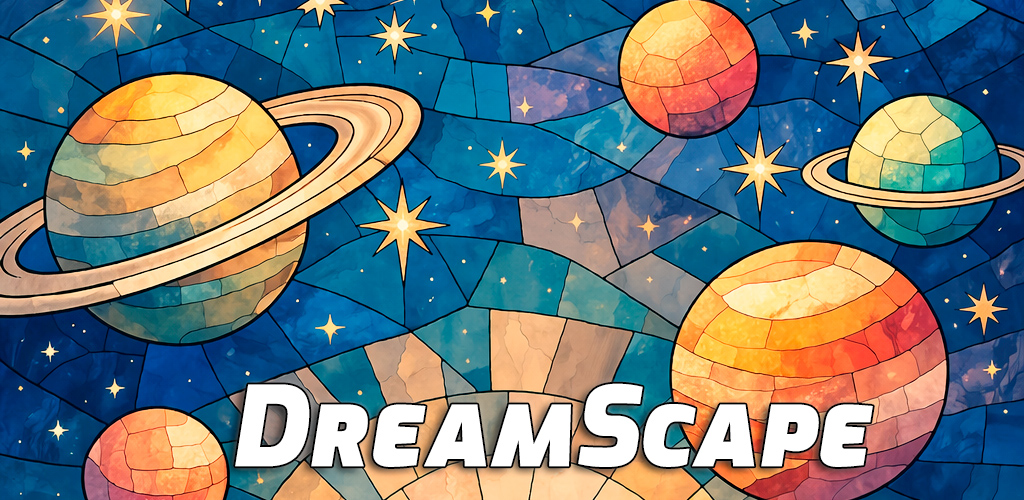
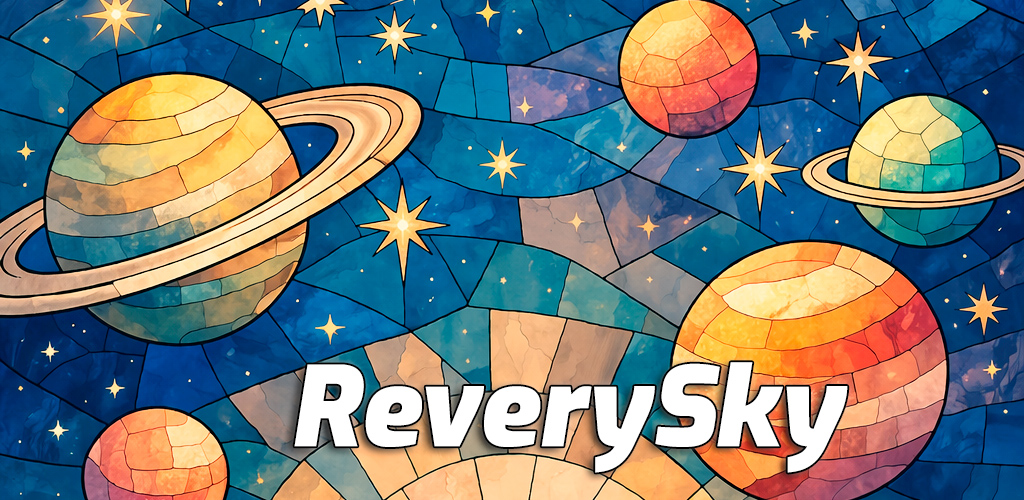
Rebranding to ReverySky

Changed region(s): [[0.2188, 0.72, 0.875, 0.96]]

diff --git a/index.html b/index.html
@@ -3,29 +3,29 @@
 <head>
   <meta charset="UTF-8" />
   <meta name="viewport" content="width=device-width, initial-scale=1.0" />
-  <title>DreamScape</title>
+  <title>ReverySky</title>
   <meta
     name="description"
-    content="DreamScape is an Android dream journaling app and casual cosmic game where recorded dreams become a growing Star Map."
+    content="ReverySky is an Android dream journaling app and casual cosmic game where recorded dreams become a growing Star Map."
   />
   <meta name="robots" content="index,follow,max-image-preview:large" />
-  <link rel="canonical" href="https://moonskorch.github.io/dreamscape/" />
+  <link rel="canonical" href="https://moonskorch.github.io/reverysky/" />
   <meta property="og:type" content="website" />
-  <meta property="og:site_name" content="DreamScape" />
-  <meta property="og:title" content="DreamScape" />
+  <meta property="og:site_name" content="ReverySky" />
+  <meta property="og:title" content="ReverySky" />
   <meta
     property="og:description"
-    content="DreamScape is an Android dream journaling app and casual cosmic game where recorded dreams become a growing Star Map."
+    content="ReverySky is an Android dream journaling app and casual cosmic game where recorded dreams become a growing Star Map."
   />
-  <meta property="og:url" content="https://moonskorch.github.io/dreamscape/" />
-  <meta property="og:image" content="https://moonskorch.github.io/dreamscape/assets/featured.jpg" />
+  <meta property="og:url" content="https://moonskorch.github.io/reverysky/" />
+  <meta property="og:image" content="https://moonskorch.github.io/reverysky/assets/featured.jpg" />
   <meta name="twitter:card" content="summary_large_image" />
-  <meta name="twitter:title" content="DreamScape" />
+  <meta name="twitter:title" content="ReverySky" />
   <meta
     name="twitter:description"
-    content="DreamScape is an Android dream journaling app and casual cosmic game where recorded dreams become a growing Star Map."
+    content="ReverySky is an Android dream journaling app and casual cosmic game where recorded dreams become a growing Star Map."
   />
-  <meta name="twitter:image" content="https://moonskorch.github.io/dreamscape/assets/featured.jpg" />
+  <meta name="twitter:image" content="https://moonskorch.github.io/reverysky/assets/featured.jpg" />
   <link rel="icon" type="image/png" sizes="128x128" href="assets/icon-128.png" />
   <link rel="apple-touch-icon" sizes="512x512" href="assets/icon-512.png" />
   <link
@@ -39,10 +39,10 @@
     {
       "@context": "https://schema.org",
       "@type": ["SoftwareApplication", "MobileApplication"],
-      "name": "DreamScape",
+      "name": "ReverySky",
       "applicationCategory": "GameApplication",
       "operatingSystem": "Android",
-      "description": "DreamScape is an Android dream journaling app and casual cosmic game where recorded dreams become a growing Star Map.",
+      "description": "ReverySky is an Android dream journaling app and casual cosmic game where recorded dreams become a growing Star Map.",
       "offers": {
         "@type": "Offer",
         "price": "0",
@@ -59,8 +59,8 @@
   <header class="site-header">
     <div class="container d-flex align-items-center justify-content-between py-3">
       <a href="index.html" class="logo">
-        <img class="logo-icon" src="assets/icon-128.png" alt="DreamScape icon" />
-        <span>DreamScape</span>
+        <img class="logo-icon" src="assets/icon-128.png" alt="ReverySky icon" />
+        <span>ReverySky</span>
       </a>
       <a
         class="header-discord-link"
@@ -82,11 +82,11 @@
             <img
               class="hero-title-image"
               src="assets/featured.jpg"
-              alt="DreamScape featured artwork"
+              alt="ReverySky featured artwork"
             />
-            <h1 class="visually-hidden">DreamScape</h1>
+            <h1 class="visually-hidden">ReverySky</h1>
             <p class="lead">
-              DreamScape is an Android app and casual cosmic game built around dream journaling.
+              ReverySky is an Android app and casual cosmic game built around dream journaling.
               Record dreams, grow your personal Star Map, and watch recurring patterns emerge across
               different nights.
             </p>
@@ -131,18 +131,18 @@
           <div class="col-12 col-lg-8 text-center">
             <h2 class="section-title">In-Game Screenshots</h2>
             <p class="section-intro">
-              A quick look at DreamScape gameplay and interface.
+              A quick look at ReverySky gameplay and interface.
             </p>
           </div>
         </div>
 
-        <div class="screenshots-carousel" aria-label="DreamScape app screenshots">
+        <div class="screenshots-carousel" aria-label="ReverySky app screenshots">
           <button class="carousel-btn prev" type="button" aria-label="Previous screenshot">&#8249;</button>
           <div class="screenshots-track" id="screenshotsTrack" tabindex="0">
             <figure class="screenshot-card">
               <img
                 src="assets/screenshots/star-map-overview.jpg"
-                alt="DreamScape star map overview screen"
+                alt="ReverySky star map overview screen"
                 loading="lazy"
               />
               <figcaption>Star Map Network</figcaption>
@@ -150,7 +150,7 @@
             <figure class="screenshot-card">
               <img
                 src="assets/screenshots/star-map-planet-view.jpg"
-                alt="DreamScape star map planet view screen"
+                alt="ReverySky star map planet view screen"
                 loading="lazy"
               />
               <figcaption>Dream Star with Landmarks</figcaption>
@@ -158,7 +158,7 @@
             <figure class="screenshot-card">
               <img
                 src="assets/screenshots/dream-editor.jpg"
-                alt="DreamScape dream editor screen"
+                alt="ReverySky dream editor screen"
                 loading="lazy"
               />
               <figcaption>Note Editor</figcaption>
@@ -166,7 +166,7 @@
             <figure class="screenshot-card">
               <img
                 src="assets/screenshots/recall-screen.jpg"
-                alt="DreamScape recall screen"
+                alt="ReverySky recall screen"
                 loading="lazy"
               />
               <figcaption>Recall Flow</figcaption>
@@ -174,7 +174,7 @@
             <figure class="screenshot-card">
               <img
                 src="assets/screenshots/dream-card.jpg"
-                alt="DreamScape dream card screen"
+                alt="ReverySky dream card screen"
                 loading="lazy"
               />
               <figcaption>Dream Star Landmarks &amp; Boons</figcaption>
@@ -182,7 +182,7 @@
             <figure class="screenshot-card">
               <img
                 src="assets/screenshots/cards-3d-space.jpg"
-                alt="DreamScape tarot-inspired boons cards in 3D space"
+                alt="ReverySky tarot-inspired boons cards in 3D space"
                 loading="lazy"
               />
               <figcaption>Tarot-inspired Boons</figcaption>
@@ -190,7 +190,7 @@
             <figure class="screenshot-card">
               <img
                 src="assets/screenshots/home-menu.jpg"
-                alt="DreamScape home menu screen"
+                alt="ReverySky home menu screen"
                 loading="lazy"
               />
               <figcaption>Home Menu</figcaption>
@@ -208,7 +208,7 @@
           <div class="col-12 col-lg-8 text-center">
             <h2 class="section-title">A Casual Cosmic Game Built From Your Dreams</h2>
             <p class="section-intro">
-              DreamScape blends dream journaling, personal notes, and light progression into a
+              ReverySky blends dream journaling, personal notes, and light progression into a
               calm, replayable loop.
             </p>
           </div>
@@ -261,19 +261,19 @@
           <div class="col-12 col-lg-6">
             <h2 class="project-note-title">Project Stage</h2>
             <p class="project-note-text">
-              DreamScape is created by <strong>MoonSkorch Studio</strong>, a solo indie developer
+              ReverySky is created by <strong>MoonSkorch Studio</strong>, a solo indie developer
               label. The core loop is stable and ready for everyday use: record dreams, grow your
               Star Map, and revisit entries over time.
             </p>
             <p class="project-note-text">
-              DreamScape is now rolling out across stores, and community feedback helps shape
+              ReverySky is now rolling out across stores, and community feedback helps shape
               upcoming updates.
             </p>
           </div>
           <div class="col-12 col-lg-6">
             <h2 class="project-note-title">Join the Community</h2>
             <p class="project-note-text">
-              If DreamScape resonates with you, download it, try it, leave a review, and share your
+              If ReverySky resonates with you, download it, try it, leave a review, and share your
               impressions in Discord.
             </p>
             <div class="community-cta">
@@ -369,10 +369,10 @@
       class="container py-4 d-flex flex-column flex-sm-row gap-2 justify-content-between align-items-start align-items-sm-center"
     >
       <div class="publisher-block">
-        <p class="copyright">(c) 2026 DreamScape</p>
+        <p class="copyright">(c) 2026 ReverySky</p>
         <p class="publisher">Published by MoonSkorch Studio</p>
         <p class="contact-email">
-          Contact: <a class="contact-link" href="mailto:dreamscape.journal@proton.me">dreamscape.journal@proton.me</a>
+          Contact: <a class="contact-link" href="mailto:reverysky.journal@proton.me">reverysky.journal@proton.me</a>
         </p>
       </div>
       <div class="legal-links">

diff --git a/privacy-policy.html b/privacy-policy.html
@@ -3,14 +3,14 @@
 <head>
   <meta charset="UTF-8" />
   <meta name="viewport" content="width=device-width, initial-scale=1.0" />
-  <title>DreamScape - Privacy Policy</title>
-  <meta name="description" content="Privacy Policy for DreamScape." />
+  <title>ReverySky - Privacy Policy</title>
+  <meta name="description" content="Privacy Policy for ReverySky." />
   <meta name="robots" content="index,follow,max-image-preview:large" />
-  <link rel="canonical" href="https://moonskorch.github.io/dreamscape/privacy-policy.html" />
+  <link rel="canonical" href="https://moonskorch.github.io/reverysky/privacy-policy.html" />
   <meta property="og:type" content="website" />
-  <meta property="og:title" content="DreamScape Privacy Policy" />
-  <meta property="og:description" content="Privacy Policy for DreamScape." />
-  <meta property="og:url" content="https://moonskorch.github.io/dreamscape/privacy-policy.html" />
+  <meta property="og:title" content="ReverySky Privacy Policy" />
+  <meta property="og:description" content="Privacy Policy for ReverySky." />
+  <meta property="og:url" content="https://moonskorch.github.io/reverysky/privacy-policy.html" />
   <link rel="icon" type="image/png" sizes="128x128" href="assets/icon-128.png" />
   <link rel="apple-touch-icon" sizes="512x512" href="assets/icon-512.png" />
   <link
@@ -25,8 +25,8 @@
   <header class="site-header">
     <div class="container d-flex align-items-center justify-content-between py-3">
       <a href="index.html" class="logo">
-        <img class="logo-icon" src="assets/icon-128.png" alt="DreamScape icon" />
-        <span>DreamScape</span>
+        <img class="logo-icon" src="assets/icon-128.png" alt="ReverySky icon" />
+        <span>ReverySky</span>
       </a>
       <span class="status-pill">Privacy Policy</span>
     </div>
@@ -42,13 +42,13 @@
               <p class="updated"><strong>Last updated:</strong> 28 March 2026</p>
 
               <p>
-                This Privacy Policy explains how DreamScape (the "App"), published by MoonSkorch
+                This Privacy Policy explains how ReverySky (the "App"), published by MoonSkorch
                 Studio, accesses and handles information.
               </p>
 
               <h2>1. Overview</h2>
               <p>
-                DreamScape is designed to work primarily with data stored locally on your device.
+                ReverySky is designed to work primarily with data stored locally on your device.
               </p>
               <p>
                 The App does not require account registration.
@@ -143,7 +143,7 @@
               </p>
               <p>
                 Email:
-                <a href="mailto:dreamscape.journal@proton.me">dreamscape.journal@proton.me</a>
+                <a href="mailto:reverysky.journal@proton.me">reverysky.journal@proton.me</a>
               </p>
 
               <p class="back-link">
@@ -162,10 +162,10 @@
       class="container py-4 d-flex flex-column flex-sm-row gap-2 justify-content-between align-items-start align-items-sm-center"
     >
       <div class="publisher-block">
-        <p class="copyright">(c) 2026 DreamScape</p>
+        <p class="copyright">(c) 2026 ReverySky</p>
         <p class="publisher">Published by MoonSkorch Studio</p>
         <p class="contact-email">
-          Contact: <a class="contact-link" href="mailto:dreamscape.journal@proton.me">dreamscape.journal@proton.me</a>
+          Contact: <a class="contact-link" href="mailto:reverysky.journal@proton.me">reverysky.journal@proton.me</a>
         </p>
       </div>
       <div class="legal-links">

diff --git a/terms-of-use.html b/terms-of-use.html
@@ -3,14 +3,14 @@
 <head>
   <meta charset="UTF-8" />
   <meta name="viewport" content="width=device-width, initial-scale=1.0" />
-  <title>DreamScape - Terms of Use</title>
-  <meta name="description" content="Terms of Use for DreamScape." />
+  <title>ReverySky - Terms of Use</title>
+  <meta name="description" content="Terms of Use for ReverySky." />
   <meta name="robots" content="index,follow,max-image-preview:large" />
-  <link rel="canonical" href="https://moonskorch.github.io/dreamscape/terms-of-use.html" />
+  <link rel="canonical" href="https://moonskorch.github.io/reverysky/terms-of-use.html" />
   <meta property="og:type" content="website" />
-  <meta property="og:title" content="DreamScape Terms of Use" />
-  <meta property="og:description" content="Terms of Use for DreamScape." />
-  <meta property="og:url" content="https://moonskorch.github.io/dreamscape/terms-of-use.html" />
+  <meta property="og:title" content="ReverySky Terms of Use" />
+  <meta property="og:description" content="Terms of Use for ReverySky." />
+  <meta property="og:url" content="https://moonskorch.github.io/reverysky/terms-of-use.html" />
   <link rel="icon" type="image/png" sizes="128x128" href="assets/icon-128.png" />
   <link rel="apple-touch-icon" sizes="512x512" href="assets/icon-512.png" />
   <link
@@ -25,8 +25,8 @@
   <header class="site-header">
     <div class="container d-flex align-items-center justify-content-between py-3">
       <a href="index.html" class="logo">
-        <img class="logo-icon" src="assets/icon-128.png" alt="DreamScape icon" />
-        <span>DreamScape</span>
+        <img class="logo-icon" src="assets/icon-128.png" alt="ReverySky icon" />
+        <span>ReverySky</span>
       </a>
       <span class="status-pill">Terms of Use</span>
     </div>
@@ -42,7 +42,7 @@
               <p class="updated"><strong>Last updated:</strong> 28 March 2026</p>
 
               <p>
-                These Terms of Use govern your use of DreamScape (the "App"), published by
+                These Terms of Use govern your use of ReverySky (the "App"), published by
                 MoonSkorch Studio.
               </p>
               <p>
@@ -52,7 +52,7 @@
 
               <h2>1. About the App</h2>
               <p>
-                DreamScape is a mobile application that allows users to create, read, edit, and
+                ReverySky is a mobile application that allows users to create, read, edit, and
                 manage their own notes and related content on their device.
               </p>
               <p>
@@ -151,7 +151,7 @@
               </p>
               <p>
                 Email:
-                <a href="mailto:dreamscape.journal@proton.me">dreamscape.journal@proton.me</a>
+                <a href="mailto:reverysky.journal@proton.me">reverysky.journal@proton.me</a>
               </p>
 
               <p class="back-link">
@@ -170,10 +170,10 @@
       class="container py-4 d-flex flex-column flex-sm-row gap-2 justify-content-between align-items-start align-items-sm-center"
     >
       <div class="publisher-block">
-        <p class="copyright">(c) 2026 DreamScape</p>
+        <p class="copyright">(c) 2026 ReverySky</p>
         <p class="publisher">Published by MoonSkorch Studio</p>
         <p class="contact-email">
-          Contact: <a class="contact-link" href="mailto:dreamscape.journal@proton.me">dreamscape.journal@proton.me</a>
+          Contact: <a class="contact-link" href="mailto:reverysky.journal@proton.me">reverysky.journal@proton.me</a>
         </p>
       </div>
       <div class="legal-links">

diff --git a/README.md b/README.md
@@ -1,6 +1,6 @@
-# DreamScape Website
+# ReverySky Website
 
-This repository contains the official landing website for the DreamScape app.
+This repository contains the official landing website for the ReverySky app.
 
 Live page:
-https://moonskorch.github.io/dreamscape/
+https://moonskorch.github.io/reverysky/
